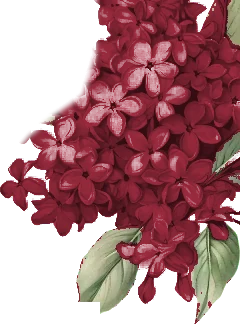
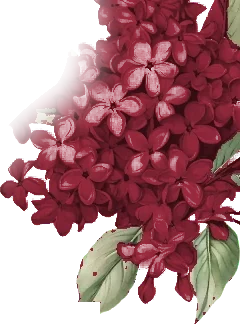
Ajustes de flores: dicas, lírio e flor da foto

diff --git a/index.html b/index.html
@@ -10,8 +10,8 @@
 <meta property="og:title" content="Isis Paranho Viana · Formatura em Medicina">
 <meta property="og:description" content="Você é meu convidado especial. Toque para abrir o convite.">
 <meta property="og:url" content="https://isisparanho-debug.github.io/formatura/">
-<meta property="og:image" content="https://isisparanho-debug.github.io/formatura/og8.jpg">
-<meta property="og:image:secure_url" content="https://isisparanho-debug.github.io/formatura/og8.jpg">
+<meta property="og:image" content="https://isisparanho-debug.github.io/formatura/og9.jpg">
+<meta property="og:image:secure_url" content="https://isisparanho-debug.github.io/formatura/og9.jpg">
 <meta property="og:image:type" content="image/jpeg">
 <meta property="og:locale" content="pt_BR">
 <meta property="og:image:width" content="1200"><meta property="og:image:height" content="630">
@@ -376,9 +376,7 @@ footer .caps{display:block;margin-top:18px;font-size:11px;letter-spacing:.3em;co
 
 <!-- ========== DICAS ========== -->
 <section id="dicas">
-  <img class="fl" src="img/lilac_or.webp" alt="" style="right:22%;top:-8px;width:24%;transform:scaleX(-1) rotate(-10deg)">
-  <img class="fl" src="img/iris.webp" alt="" style="right:44%;top:-4px;width:12%;transform:rotate(-30deg)">
-  <img class="fl" src="img/lilac2_f.webp" alt="" style="right:-4px;top:0;width:30%">
+  <img class="fl" src="img/lilac2_f.webp" alt="" style="right:0;top:0;width:34%">
   <div class="rv" style="position:relative;z-index:2">
     <p class="eyebrow">PARA QUEM VEM A IJUÍ</p>
     <h2 class="script big">dicas com carinho</h2>
